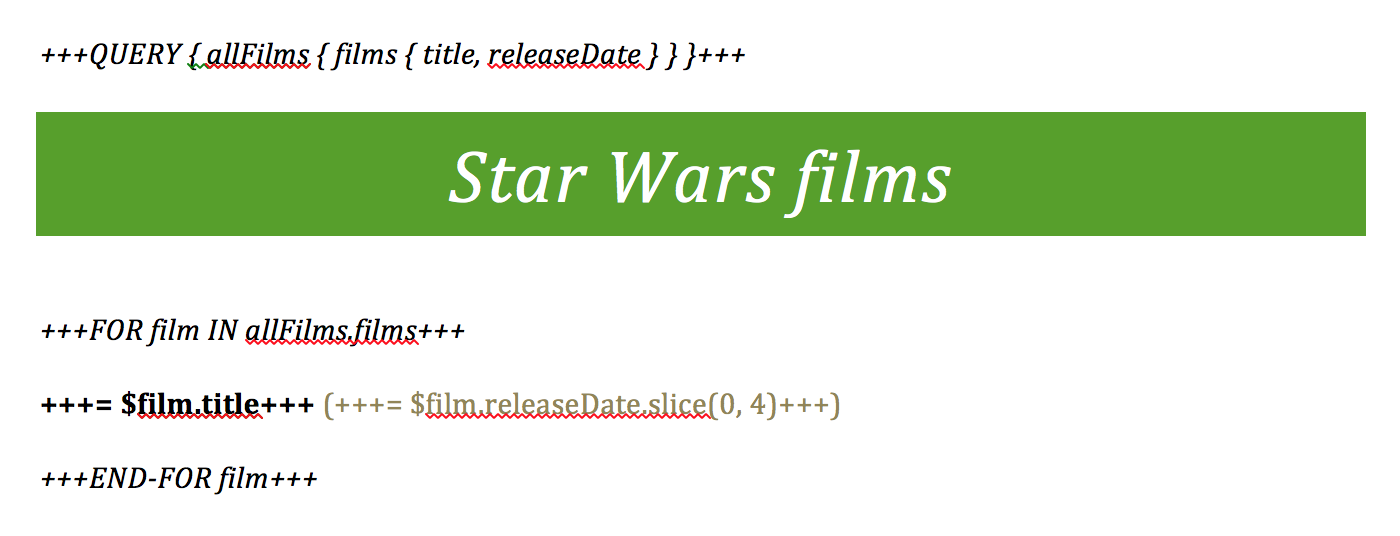
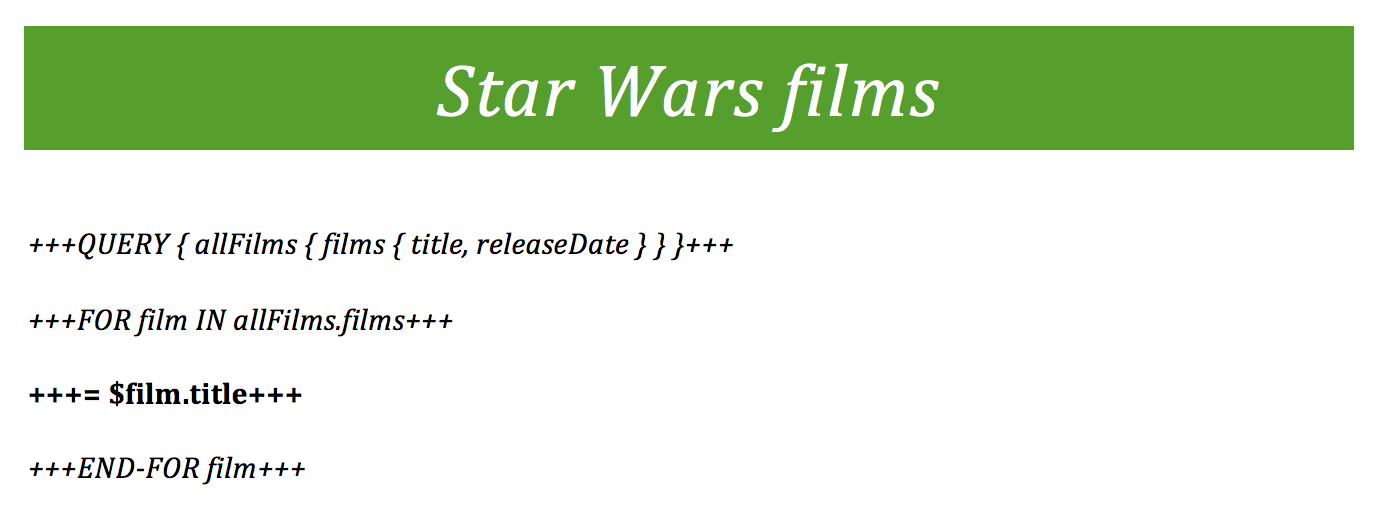
Add draft post on docx-templates

diff --git a/_drafts/2016-12-28-word-docs-the-relay-way.md b/_drafts/2016-12-28-word-docs-the-relay-way.md
@@ -1,0 +1,113 @@
+---
+layout:     post
+title:      "Word documents, <i>the Relay way</i>™"
+subtitle:   "Bridging Word templates, GraphQL queries and JavaScript snippets"
+date:       2016-12-28 12:00:00
+author:     "Guillermo Grau"
+header-img: "img/06-bridge.jpg"
+comments:   true
+---
+
+**_TL;DR_ &nbsp;&nbsp;&nbsp;Sometimes you have to set aside your developer work and do some office stuff. And sometimes that includes generating Word reports with dynamic contents. What if you could bridge Word, GraphQL and JavaScript to help you with these chores?**
+
+Every once in a while you need to produce a Microsoft Word document with dynamic contents. Maybe it's a project report, or the boring economic section of a tender. Chances are you're working within a team, and you absolutely need your document to be in the *de facto* standard for non-nerdy output: Word.
+
+You don't want to write hundreds of tables by hand, so you start thinking about *docx* automation. And since you're a proud Node.js developer, you stumble upon these types of modules from the top of npm's search results:
+
+* *Fully programmatic generators*, like [docx](https://github.com/dolanmiu/docx), which provide functions to create paragraphs, text runs, and so on.
+
+* *Template-based generators*, like [docx-templates](https://github.com/guigrpa/docx-templates), which let you start with an ordinary Word document, adding commands as needed to insert dynamic contents.
+
+The benefits of the second approach are numerous:
+
+1. You don't need the library to support every tiny little feature of Word. The input template will be used transparently, so the output will be compatible with whatever version of Office you're using.
+
+2. You don't need to write code to generate *static* parts of your document.
+
+3. You can even write documents *à la Relay*. What am I talking about? Well, just keep on reading!
+
+
+## Colocating queries
+
+One of the key ideas in [Relay](https://facebook.github.io/relay/) is *colocation*. It's literally front and center in its home page, and what it basically means is that data requirements (the *query*) are declared very close to the components that need the data.
+
+If we translate this idea to report generation, wouldn't it be nice if we just wrote the data query in the document itself? A very simple template would look like this:
+
+<a href="{{ site.baseurl }}/img/docx-swapi-simple1.png">
+    <img src="{{ site.baseurl }}/img/docx-swapi-simple1.png" alt="Query colocation in docx-templates">
+</a>
+<span class="caption text-muted">Query colocation</span>
+
+We're using the [Star Wars API](https://swapi.co/) with the [GraphQL](http://graphql.org/) [wrapper](https://github.com/graphql/swapi-graphql) for maximum convenience, but `docx-templates` doesn't really care about the language you choose for queries, as long as they eventually resolve to some data.
+
+With the data requirements in place, we can write a short JavaScript snippet to execute the embedded query and create the report.
+
+```js
+// swapi.js
+const createReport = require('docx-templates');
+require('isomorphic-fetch');  // assuming a modern Node, you need no Promise polyfill
+
+createReport({
+  template: process.argv[2],
+  data: query =>
+    fetch('http://graphql-swapi.parseapp.com', {
+      method: 'POST',
+      headers: {
+        Accept: 'application/json',
+        'Content-Type': 'application/json',
+      },
+      body: JSON.stringify({ query }),
+    })
+    .then(res => res.json())
+    .then(res => res.data),
+});
+```
+
+Run this script with `node swapi swapi-simple-template.docx` and *voilà*, both trilogies come up in your report (alas, no *Force Awakens* data yet in the GraphQL wrapper 😱):
+
+<a href="{{ site.baseurl }}/img/docx-swapi-simple2.png">
+    <img src="{{ site.baseurl }}/img/docx-swapi-simple2.png" alt="A very simple report generated with docx-templates">
+</a>
+<span class="caption text-muted">A simple report generated with `docx-templates`</span>
+
+## A more complex example
+
+GraphQL is really great for describing complex data requirements. Imagine you want to summarize all Star Wars films with some basic data and a table of characters with their species, home planet, and ships (i.e. vehicles with hyperdrive) they appear in. Really nerdy stuff, huh? No problem with GraphQL:
+
+```
++++QUERY { allFilms { films {
+  title, releaseDate, director, producers, openingCrawl
+  characterConnection { characters {
+    name
+    species { name }
+    homeworld { name }
+    starshipConnection { starships { name crew passengers } }
+  } }
+} } }+++
+```
+
+Your Word template might look like this (right after the query):
+
+<a href="{{ site.baseurl }}/img/docx-swapi-complex2.png">
+    <img src="{{ site.baseurl }}/img/docx-swapi-complex2.png" alt="A complete template with embedded JS">
+</a>
+<span class="caption text-muted">A complete template with embedded JS</span>
+
+This templates demonstrates other features of `docx-templates`:
+
+* You can embed JavaScript in your `INS` (shorthand notation: `=`), `FOR` and other commands.
+
+* You can define aliases (`ALIAS`) for complete commands, which you can then resolve with the `*<alias-name>` shorthand. We found it quite useful when templating tables.
+
+* Loop variables (e.g. `$film`, `$character`) can be used from embedded JavaScript snippets, just like any other property of the query result.
+
+Want to see the generated document? Just run `node swapi swapi-complex-template.docx` and there it is, in all its geeky splendor:
+
+<a href="{{ site.baseurl }}/img/docx-swapi-complex3.png">
+    <img src="{{ site.baseurl }}/img/docx-swapi-complex3.png" alt="A complete report generated with docx-templates">
+</a>
+<span class="caption text-muted">A complete report generated with `docx-templates`</span>
+
+## A final word
+
+[`docx-templates`](https://github.com/guigrpa/docx-templates) is a young project and still evolving with our needs. If you use it and have suggestions or —even better— want to contribute, please visit its GitHub repo!
